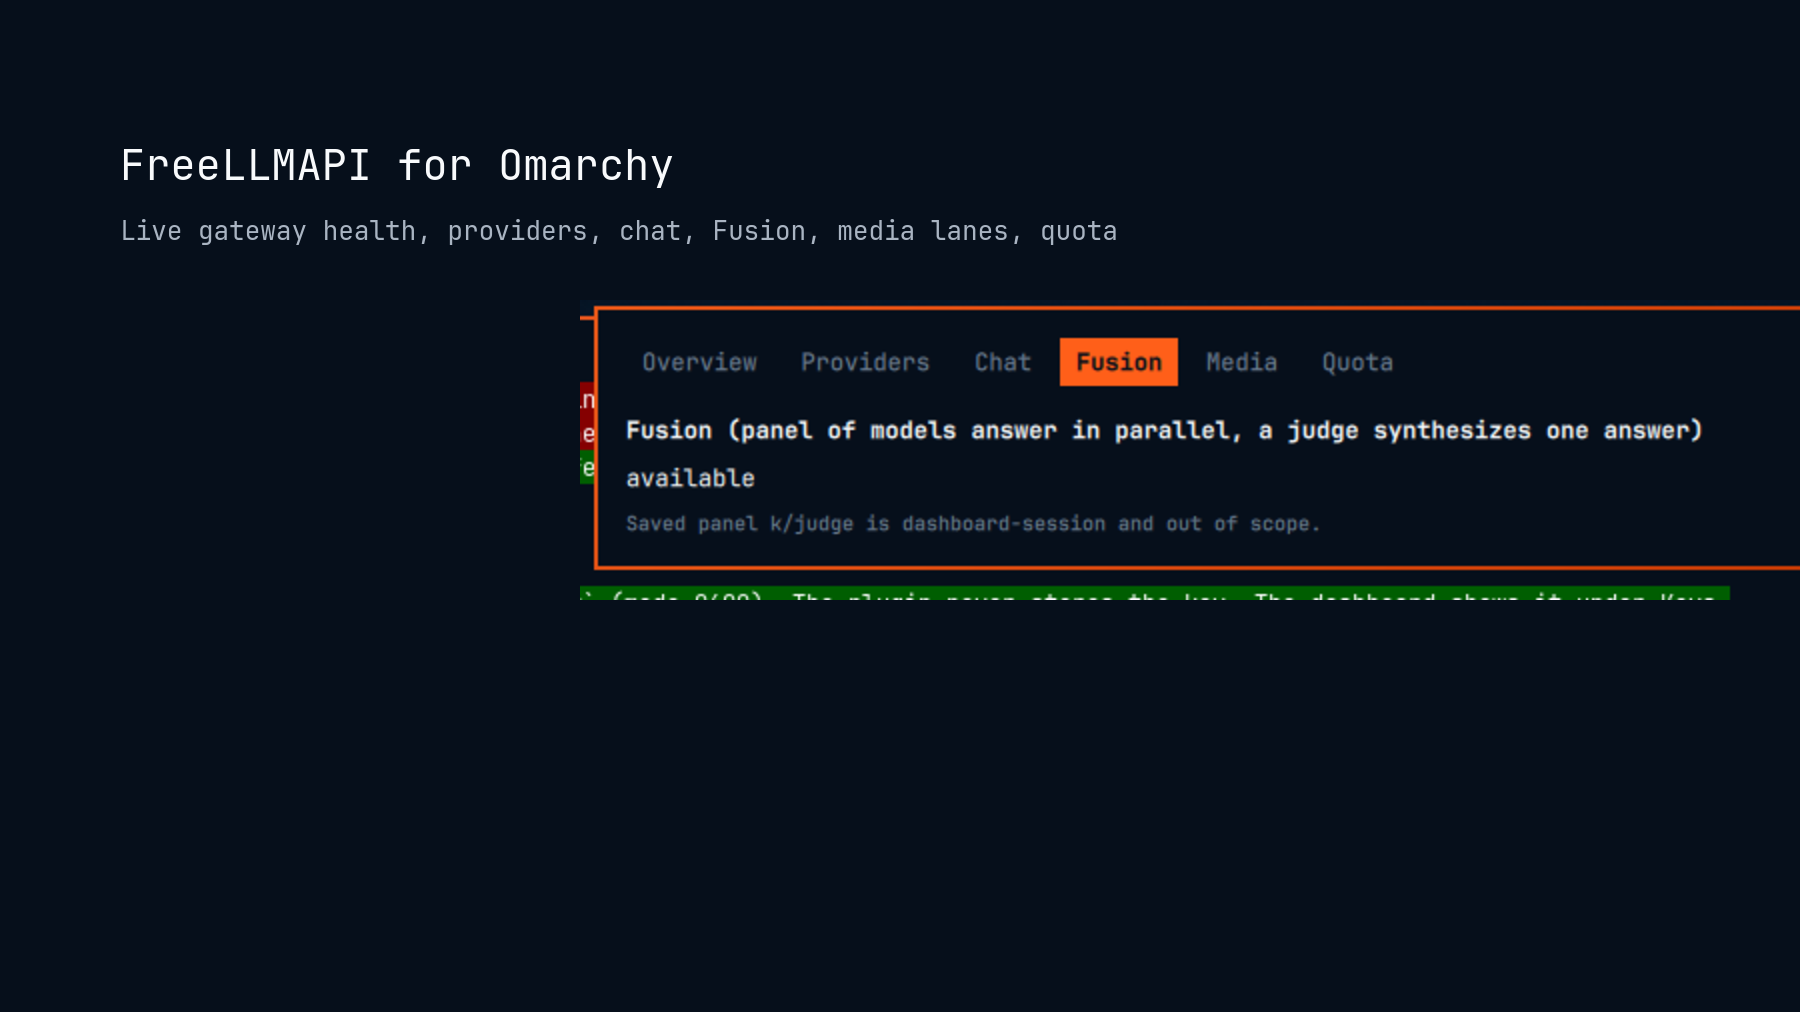
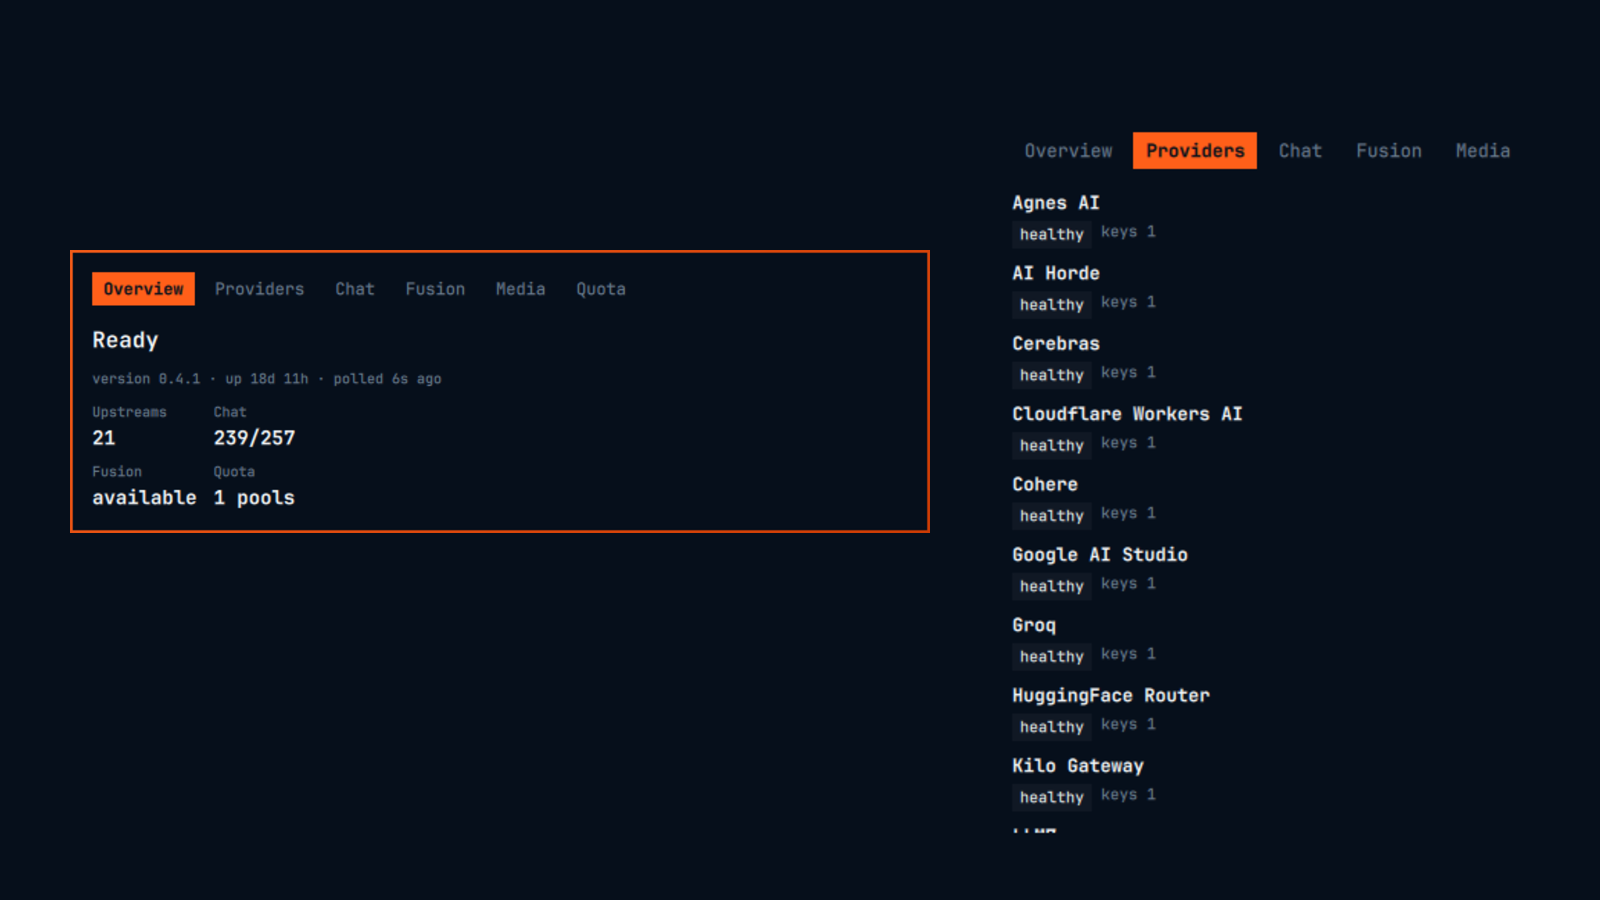
fix: pin loopback curl and ship the public preview
A missing curl status line is now a failure, and localhost is pinned
with --resolve after the loopback check. The marketplace cover is the
approved 16:9 panel capture.

diff --git a/tests/test_collect_write.py b/tests/test_collect_write.py
@@ -116,7 +116,7 @@ class CollectWriteTests(unittest.TestCase):
 
         class Result:
             returncode = 0
-            stdout = '{"status":"ok"}'
+            stdout = '{"status":"ok"}\n200'
             stderr = ""
 
         def fake_run(argv, input=None, capture_output=None, text=None, env=None, **kwargs):
@@ -135,7 +135,8 @@ class CollectWriteTests(unittest.TestCase):
         expected = [
             "curl", "-q", "--noproxy", "*", "--proto", "=http,https",
             "--max-redirs", "0", "--max-filesize", "262144",
-            "-sS", "-m", "8", "-w", "\n%{http_code}", "-K", "-",
+            "-sS", "-m", "8", "-w", "\n%{http_code}",
+            "--resolve", "127.0.0.1:3001:127.0.0.1", "-K", "-",
         ]
         self.assertEqual(len(calls), 2)
         auth_argv, auth_in = calls[0]
@@ -316,7 +317,7 @@ class CollectWriteTests(unittest.TestCase):
 
         class Result:
             returncode = 0
-            stdout = '{"status":"ok"}'
+            stdout = '{"status":"ok"}\n200'
             stderr = ""
 
         def fake_run(argv, input=None, capture_output=None, text=None, env=None, **kwargs):
@@ -342,6 +343,23 @@ class CollectWriteTests(unittest.TestCase):
         self.assertFalse(any(name.lower() in {"http_proxy", "https_proxy", "all_proxy"} for name in env))
         self.assertIn("test-unified-key", stdin_cfg)
         self.assertNotIn("should-not-leak", self.mod.safe_error("Authorization: Bearer should-not-leak"))
+        self.assertIn("--resolve", argv)
+        resolve = argv[argv.index("--resolve") + 1]
+        self.assertTrue(resolve.startswith("127.0.0.1:9:"))
+
+    def test_missing_http_status_line_is_a_failure(self):
+        class Result:
+            returncode = 0
+            stdout = '{"status":"ok"}'
+            stderr = ""
+
+        original = self.mod.subprocess.run
+        self.mod.subprocess.run = lambda *args, **kwargs: Result()
+        try:
+            with self.assertRaises(RuntimeError):
+                self.mod.http_get("http://127.0.0.1:9/livez")
+        finally:
+            self.mod.subprocess.run = original
 
     def test_schema_error_keeps_fresh_gateway_status(self):
         self.mod.http_get = fixture_payload

diff --git a/docs/SECURITY.md b/docs/SECURITY.md
@@ -51,7 +51,9 @@ check, or analytics. QML performs no network I/O.
 ## Dangerous-pattern posture
 
 - No `shell=True`, `os.system`, `eval`, or `exec` anywhere; the only
-  subprocess is curl with a fixed argv list.
+  subprocess is curl with a fixed argv list. `localhost` is pinned with
+  `--resolve` to the loopback addresses already checked, and a response
+  without curl's status line is a failure, not HTTP 200.
 - No `/tmp` pid files; no `pkexec`/`sudo`/`docker`; no systemctl; the
   plugin cannot start, stop, or configure anything.
 - No hardcoded secrets: the security-grep test
